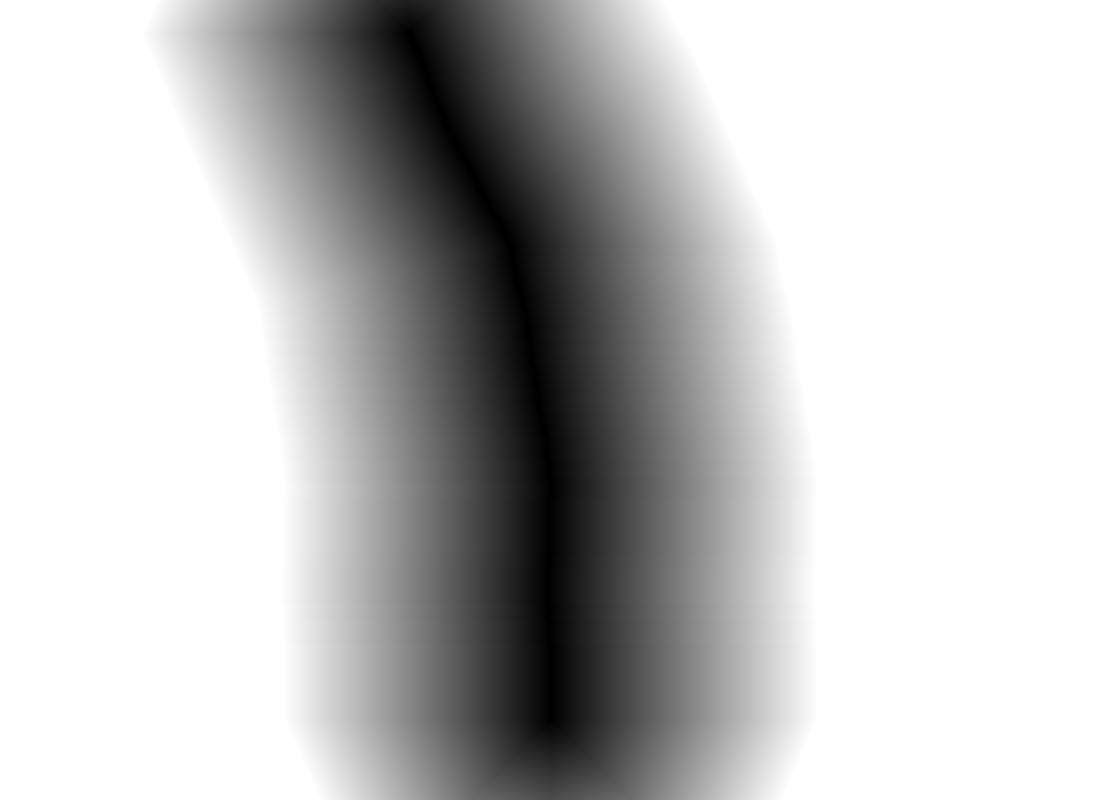
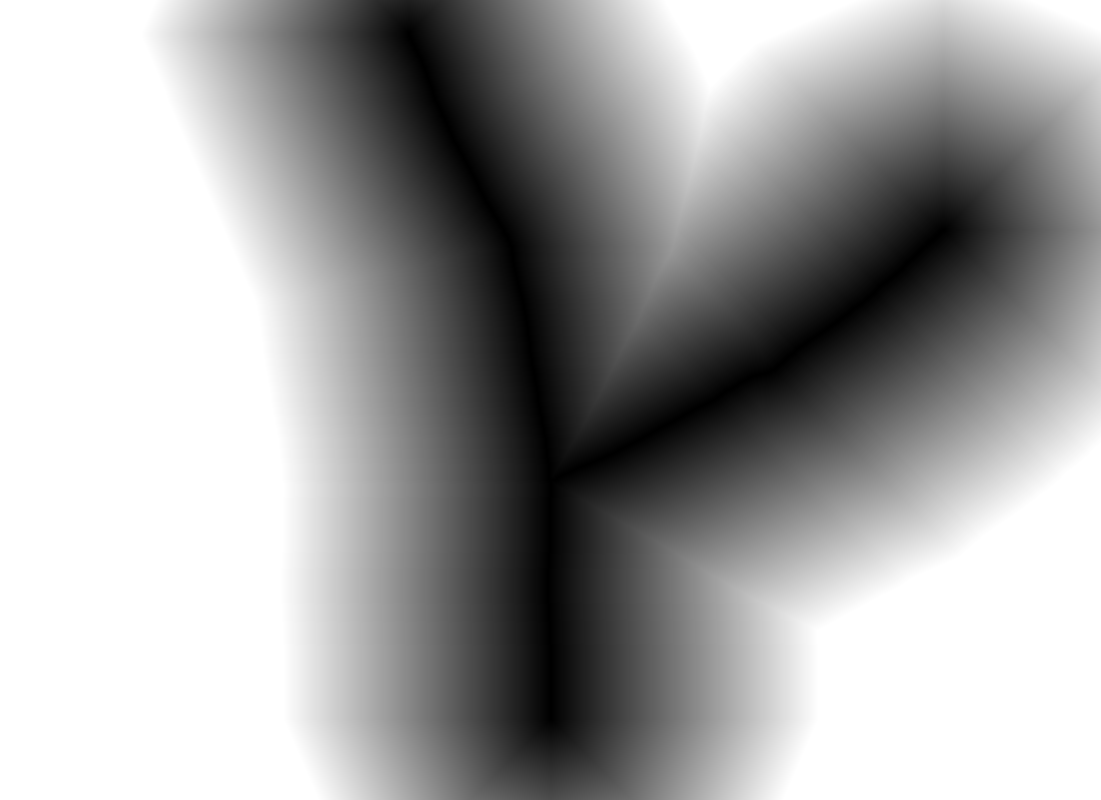
update.

Changed region(s): [[0.525, 0.0, 1.0, 0.75]]

diff --git a/MCTS/MCTS.cpp b/MCTS/MCTS.cpp
@@ -7,17 +7,21 @@ namespace mcts {
 	const double PARAM_EXPLORATION = 0.3;
 	const double PARAM_EXPLORATION_VARIANCE = 0.1;
 	const float M_PI = 3.141592653f;
+	const float TREE_INITIAL_SEGMENT_LENGTH = 0.5f;
+	const float TREE_INITIAL_SEGMENT_WIDTH = 0.3f;
+	const int MAX_SEGMENT_LEVEL = 10;
 
-	Nonterminal::Nonterminal(const std::string& name, int level, float segmentLength, float angle, bool terminated) {
+	Nonterminal::Nonterminal(const std::string& name, int level, float segmentLength, float angle, bool terminal) {
 		this->name = name;
 		this->level = level;
 		this->segmentLength = segmentLength;
+		this->segmentWidth = TREE_INITIAL_SEGMENT_WIDTH;
 		this->angle = angle;
-		this->terminated = terminated;
+		this->terminal = terminal;
 	}
 
 	boost::shared_ptr<Nonterminal> Nonterminal::clone() {
-		boost::shared_ptr<Nonterminal> newNonterminal = boost::shared_ptr<Nonterminal>(new Nonterminal(name, level, segmentLength, angle, terminated));
+		boost::shared_ptr<Nonterminal> newNonterminal = boost::shared_ptr<Nonterminal>(new Nonterminal(name, level, segmentLength, angle, terminal));
 		for (int i = 0; i < children.size(); ++i) {
 			newNonterminal->children.push_back(children[i]->clone());
 		}
@@ -60,7 +64,7 @@ namespace mcts {
 			boost::shared_ptr<Nonterminal> node = queue.front();
 			queue.pop_front();
 
-			if (!node->terminated) {
+			if (!node->terminal) {
 				newState.queue.push_back(node);
 			}
 
@@ -78,7 +82,7 @@ namespace mcts {
 		boost::shared_ptr<Nonterminal> node = queue.front();
 		queue.pop_front();
 
-		if (node->terminated) return false;
+		if (node->terminal) return false;
 
 		applyRule(derivationTree, node, action, queue);
 
@@ -101,12 +105,12 @@ namespace mcts {
 				}
 			}
 			else if (state.queue.front()->name == "/") {
-				for (int i = 0; i < 5; ++i) {
+				for (int i = 0; i < 7; ++i) {
 					this->unexpandedActions.push_back(i);
 				}
 			}
 			else if (state.queue.front()->name == "\\") {
-				for (int i = 0; i < 6; ++i) {
+				for (int i = 0; i < 14; ++i) {
 					this->unexpandedActions.push_back(i);
 				}
 			}
@@ -188,7 +192,7 @@ namespace mcts {
 		cv::distanceTransform(grayImage, targetDistMap, CV_DIST_L2, 3);
 
 		////////////////////////////////////////////// DEBUG //////////////////////////////////////////////
-		cv::imwrite("targetDistMap.png", targetDistMap);
+		//cv::imwrite("targetDistMap.png", targetDistMap);
 		////////////////////////////////////////////// DEBUG //////////////////////////////////////////////
 
 		targetDistMap.convertTo(targetDistMap, CV_32F);
@@ -199,7 +203,7 @@ namespace mcts {
 			QDir("results").removeRecursively();
 		}
 
-		State state(boost::shared_ptr<Nonterminal>(new Nonterminal("X", 0, 3.0f)));
+		State state(boost::shared_ptr<Nonterminal>(new Nonterminal("X", 0, TREE_INITIAL_SEGMENT_LENGTH)));
 
 		for (int iter = 0; iter < maxDerivationSteps; ++iter) {
 			state = mcts(state, maxMCTSIterations);
@@ -274,7 +278,7 @@ namespace mcts {
 	
 	float MCTS::simulate(const boost::shared_ptr<MCTSTreeNode>& childNode) {
 		State state = childNode->state.clone();
-		randomDerivation(state.derivationTree, state.queue, 3);
+		randomDerivation(state.derivationTree, state.queue, MAX_SEGMENT_LEVEL);
 		return evaluate(state.derivationTree);
 	}
 
@@ -310,7 +314,7 @@ namespace mcts {
 		QImage image;
 		render(derivationTree.root, image);
 		////////////////////////////////////////////// DEBUG //////////////////////////////////////////////
-		image.save("output.png");
+		//image.save("output.png");
 		////////////////////////////////////////////// DEBUG //////////////////////////////////////////////
 
 		cv::Mat sourceImage(image.height(), image.width(), CV_8UC4, image.bits(), image.bytesPerLine());
@@ -322,40 +326,46 @@ namespace mcts {
 		cv::Mat distMap;
 		cv::distanceTransform(grayImage, distMap, CV_DIST_L2, 3);
 		////////////////////////////////////////////// DEBUG //////////////////////////////////////////////
-		cv::imwrite("distMap.png", distMap);
+		//cv::imwrite("distMap.png", distMap);
 		////////////////////////////////////////////// DEBUG //////////////////////////////////////////////
 		distMap.convertTo(distMap, CV_32F);
 
 		// compute the squared difference
-		return similarity(distMap, targetDistMap, 10000.0f, 10000.0f);
+		return similarity(distMap, targetDistMap, 10000.0f, 5000.0f);
 	}
 
 	void MCTS::render(const DerivationTree& derivationTree, QImage& image) {
 		glWidget->renderManager.removeObjects();
 		std::vector<Vertex> vertices;
-		generateGeometry(&glWidget->renderManager, glm::mat4(), 3.0f, 0.3f, derivationTree.root, vertices);
+		generateGeometry(&glWidget->renderManager, glm::mat4(), derivationTree.root, vertices);
 		glWidget->renderManager.addObject("tree", "", vertices, true);
 		glWidget->render();
 		
 		image = glWidget->grabFrameBuffer();
 	}
 
-	void MCTS::generateGeometry(RenderManager* renderManager, const glm::mat4& modelMat, float length, float width, const boost::shared_ptr<Nonterminal>& node, std::vector<Vertex>& vertices) {
+	void MCTS::generateGeometry(RenderManager* renderManager, const glm::mat4& modelMat, const boost::shared_ptr<Nonterminal>& node, std::vector<Vertex>& vertices) {
 		glm::mat4 mat;
 
 		if (node->name == "F") {
-			glutils::drawQuad(width, length, glm::vec4(0, 0, 0, 1), glm::translate(modelMat, glm::vec3(0, length * 0.5, 0)), vertices);
-			mat = glm::translate(modelMat, glm::vec3(0, length, 0));
+			glutils::drawQuad(node->segmentWidth, node->segmentLength, glm::vec4(0, 0, 0, 1), glm::translate(modelMat, glm::vec3(0, node->segmentLength * 0.5, 0)), vertices);
+			mat = glm::translate(modelMat, glm::vec3(0, node->segmentLength, 0));
+		}
+		else if (node->name == "X") {
+			glutils::drawQuad(node->segmentWidth, node->segmentLength, glm::vec4(0.5, 0.5, 0.5, 1), glm::translate(modelMat, glm::vec3(0, node->segmentLength * 0.5, 0)), vertices);
+			mat = glm::translate(modelMat, glm::vec3(0, node->segmentLength, 0));
 		}
 		else if (node->name == "/") {
+			if (!node->terminal) return;
 			mat = glm::rotate(modelMat, node->angle / 180.0f * M_PI, glm::vec3(0, 0, 1));
 		}
 		else if (node->name == "\\") {
+			if (!node->terminal) return;
 			mat = glm::rotate(modelMat, node->angle / 180.0f * M_PI, glm::vec3(0, 0, 1));
 		}
 		
 		for (int i = 0; i < node->children.size(); ++i) {
-			generateGeometry(renderManager, mat, length, width, node->children[i], vertices);
+			generateGeometry(renderManager, mat, node->children[i], vertices);
 		}
 	}
 
@@ -364,12 +374,12 @@ namespace mcts {
 			boost::shared_ptr<Nonterminal> node = queue.front();
 			queue.pop_front();
 
-			if (node->terminated) continue;
+			if (node->terminal) continue;
 
 			if (node->name == "X") {
 				if (node->level >= maxLevel - 1) {
 					node->name = "F";
-					node->terminated = true;
+					node->terminal = true;
 					continue;
 				}
 
@@ -377,12 +387,12 @@ namespace mcts {
 				applyRule(derivationTree, node, action, queue);
 			}
 			else if (node->name == "/") {
-				int action = rand() % 5;
+				int action = rand() % 7;
 				applyRule(derivationTree, node, action, queue);
 
 			}
 			else if (node->name == "\\") {
-				int action = rand() % 6;
+				int action = rand() % 14;
 				applyRule(derivationTree, node, action, queue);
 			}
 		}
@@ -392,11 +402,11 @@ namespace mcts {
 		if (node->name == "X") {
 			if (action == 0) {
 				node->name = "F";
-				node->terminated = true;
+				node->terminal = true;
 			}
 			else if (action == 1) {
 				node->name = "F";
-				node->terminated = true;
+				node->terminal = true;
 
 				boost::shared_ptr<Nonterminal> child = boost::shared_ptr<Nonterminal>(new Nonterminal("/", node->level + 1, node->segmentLength));
 				node->children.push_back(child);
@@ -408,7 +418,7 @@ namespace mcts {
 			}
 			else if (action == 2) {
 				node->name = "F";
-				node->terminated = true;
+				node->terminal = true;
 
 				boost::shared_ptr<Nonterminal> child1 = boost::shared_ptr<Nonterminal>(new Nonterminal("/", node->level + 1, node->segmentLength));
 				node->children.push_back(child1);
@@ -428,12 +438,12 @@ namespace mcts {
 			}
 		}
 		else if (node->name == "/") {
-			node->angle = action * 10 - 20;
-			node->terminated = true;
+			node->angle = action * 10 - 30;
+			node->terminal = true;
 		}
 		else if (node->name == "\\") {
-			node->angle = action < 3 ? action * 30 - 90 : action * 30 - 60;
-			node->terminated = true;
+			node->angle = action < 7 ? action * 10 - 90 : action * 10 - 40;
+			node->terminal = true;
 		}
 	}
 

diff --git a/MCTS/MCTS.h b/MCTS/MCTS.h
@@ -1,4 +1,4 @@
-#pragma once
+#pragma once
 
 #include <opencv2/opencv.hpp>
 #include <boost/shared_ptr.hpp>
@@ -20,12 +20,13 @@ namespace mcts {
 		std::string name;
 		int level;
 		float segmentLength;
+		float segmentWidth;
 		float angle;
 		std::vector<boost::shared_ptr<Nonterminal> > children;
-		bool terminated;
+		bool terminal; // trueなら、ruleは適用しない。もう確定ということ。
 
 	public:
-		Nonterminal(const std::string& name, int level, float segmentLength, float angle = 0.0f, bool terminated = false);
+		Nonterminal(const std::string& name, int level, float segmentLength, float angle = 0.0f, bool terminal = false);
 		boost::shared_ptr<Nonterminal> clone();
 	};
 
@@ -114,7 +115,7 @@ namespace mcts {
 		void backpropage(const boost::shared_ptr<MCTSTreeNode>& childNode, float value);
 		float evaluate(const DerivationTree& derivationTree);
 		void render(const DerivationTree& derivationTree, QImage& image);
-		void generateGeometry(RenderManager* renderManager, const glm::mat4& modelMat, float length, float width, const boost::shared_ptr<Nonterminal>& node, std::vector<Vertex>& vertices);
+		void generateGeometry(RenderManager* renderManager, const glm::mat4& modelMat, const boost::shared_ptr<Nonterminal>& node, std::vector<Vertex>& vertices);
 	};
 
 	void randomDerivation(DerivationTree& derivationTree, std::list<boost::shared_ptr<Nonterminal> >& queue, int maxLevel);

diff --git a/MCTS/GLWidget3D.cpp b/MCTS/GLWidget3D.cpp
@@ -12,6 +12,7 @@
 #include <QTextStream>
 #include "MCTS.h"
 #include "GLUtils.h"
+#include <time.h>
 
 GLWidget3D::GLWidget3D(MainWindow* mainWin) : QGLWidget(QGLFormat(QGL::SampleBuffers), (QWidget*)mainWin) {
 	this->mainWin = mainWin;
@@ -300,11 +301,16 @@ void GLWidget3D::drawLine(const QPoint& startPoint, const QPoint& endPoint) {
 }
 
 void GLWidget3D::runMCTS() {
-	QImage   swapped = sketch.rgbSwapped();
+	time_t start = clock();
+
+	QImage swapped = sketch.rgbSwapped();
 	cv::Mat sketchMat(swapped.height(), swapped.width(), CV_8UC3, const_cast<uchar*>(swapped.bits()), swapped.bytesPerLine());
 
 	mcts::MCTS mcts(sketchMat, this);
-	mcts.inverse(10, 100);
+	mcts.inverse(200, 2000);
+
+	time_t end = clock();
+	std::cout << "Elapsed time: " << (double)(end - start) / CLOCKS_PER_SEC << "sec" << std::endl;
 }
 
 void GLWidget3D::keyPressEvent(QKeyEvent *e) {
